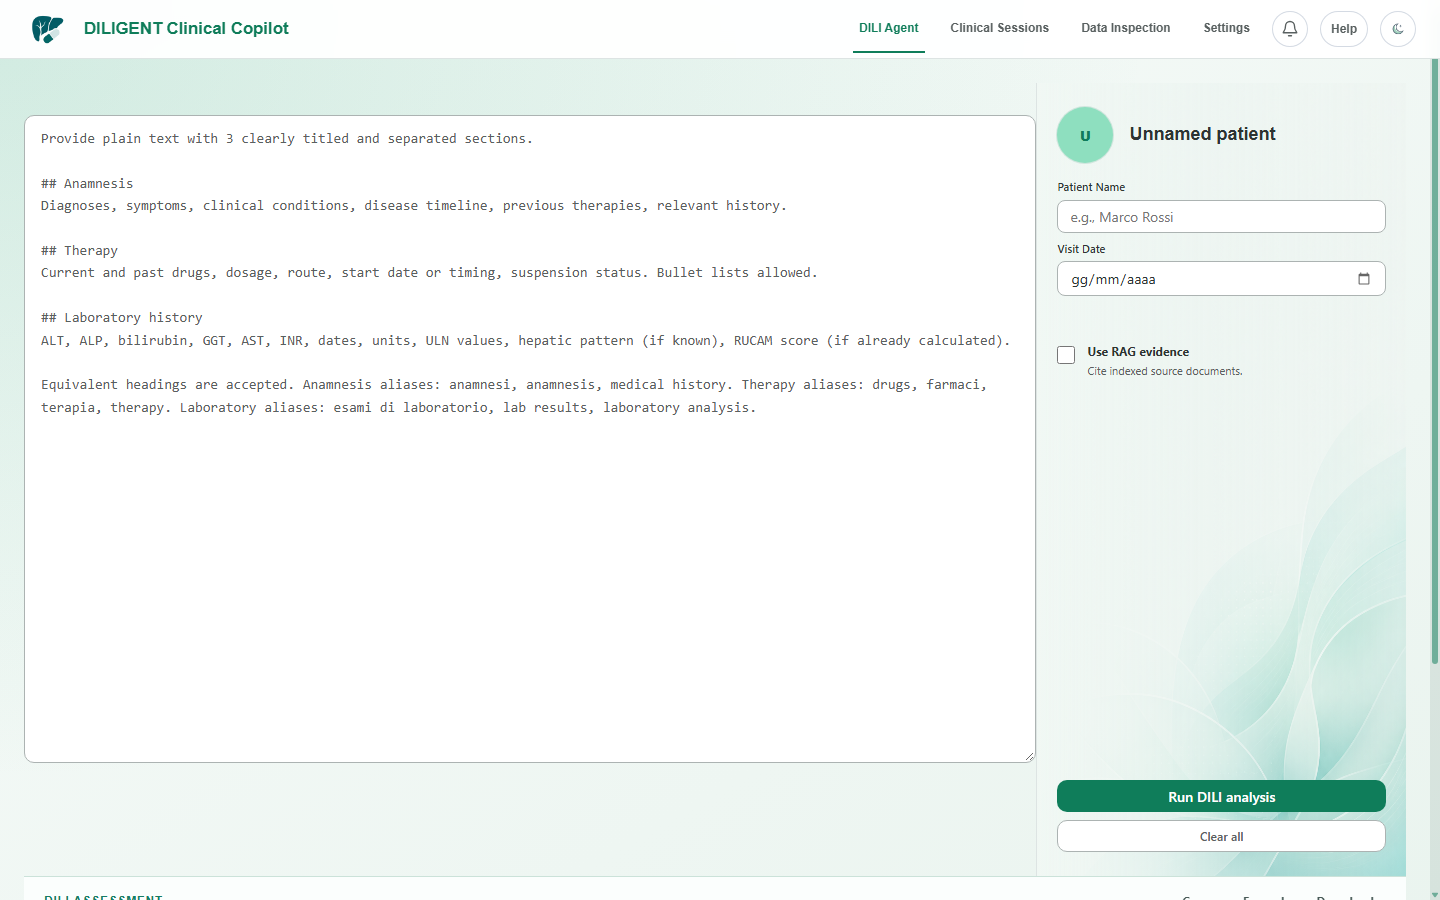
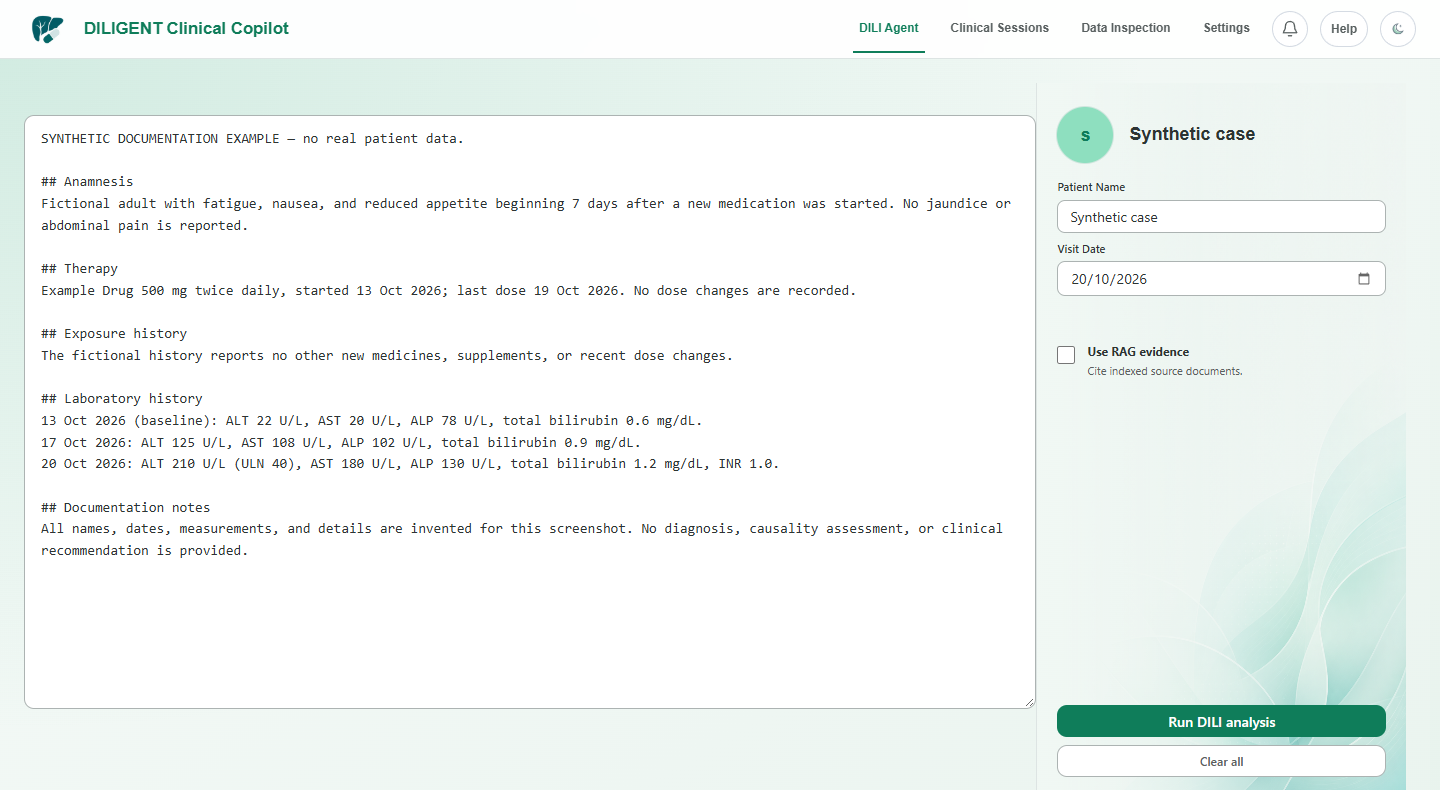
docs: update README with improved formatting and clarify content

diff --git a/README.md b/README.md
@@ -1,10 +1,22 @@
-# DILIGENT Clinical Copilot
+<p align="center">
+  <img src="app/client/public/diligent-logo.png" alt="DILIGENT logo" width="88">
+</p>
 
-<p align="center"><img src="app/client/public/diligent-logo.png" alt="DILIGENT logo" width="112"></p>
+<h1 align="center">DILIGENT Clinical Copilot</h1>
 
-**A local, single-user decision-support tool for structured review of possible drug-induced liver injury (DILI).**
+<p align="center"><strong>A local, single-user decision-support tool for structured review of possible drug-induced liver injury (DILI).</strong></p>
 
-[![License](https://img.shields.io/github/license/CTCycle/DILIGENT-Clinical-Copilot?style=flat-square)](LICENSE) [![Release](https://img.shields.io/github/v/release/CTCycle/DILIGENT-Clinical-Copilot?display_name=tag&style=flat-square)](https://github.com/CTCycle/DILIGENT-Clinical-Copilot/releases) [![CI](https://img.shields.io/github/actions/workflow/status/CTCycle/DILIGENT-Clinical-Copilot/ci.yml?branch=develop&label=CI&style=flat-square)](https://github.com/CTCycle/DILIGENT-Clinical-Copilot/actions/workflows/ci.yml?query=branch%3Adevelop) [![Python](https://img.shields.io/badge/Python-3.14%2B-3776AB?logo=python&logoColor=white&style=flat-square)](app/server/pyproject.toml) [![Angular](https://img.shields.io/badge/Angular-21-DD0031?logo=angular&logoColor=white&style=flat-square)](app/client/package.json) [![Platform](https://img.shields.io/badge/Platform-Windows-0078D4?logo=windows&logoColor=white&style=flat-square)](https://www.microsoft.com/windows)
+<p align="center">
+  <a href="LICENSE"><img alt="License" src="https://img.shields.io/github/license/CTCycle/DILIGENT-Clinical-Copilot?style=flat-square"></a>
+  <a href="https://github.com/CTCycle/DILIGENT-Clinical-Copilot/releases"><img alt="Release" src="https://img.shields.io/github/v/release/CTCycle/DILIGENT-Clinical-Copilot?display_name=tag&style=flat-square"></a>
+  <a href="https://github.com/CTCycle/DILIGENT-Clinical-Copilot/actions/workflows/ci.yml?query=branch%3Adevelop"><img alt="CI" src="https://img.shields.io/github/actions/workflow/status/CTCycle/DILIGENT-Clinical-Copilot/ci.yml?branch=develop&label=CI&style=flat-square"></a>
+</p>
+
+<p align="center">
+  <a href="app/server/pyproject.toml"><img alt="Python 3.14+" src="https://img.shields.io/badge/Python-3.14%2B-3776AB?logo=python&logoColor=white&style=flat-square"></a>
+  <a href="app/client/package.json"><img alt="Angular 21" src="https://img.shields.io/badge/Angular-21-DD0031?logo=angular&logoColor=white&style=flat-square"></a>
+  <a href="https://www.microsoft.com/windows"><img alt="Platform: Windows" src="https://img.shields.io/badge/Platform-Windows-0078D4?logo=windows&logoColor=white&style=flat-square"></a>
+</p>
 
 ## Overview
 
@@ -21,15 +33,15 @@ DILIGENT brings clinical history, medication exposure, symptoms, laboratory resu
 
 ## Screenshots
 
-Enter clinical context in the DILI Agent before starting an assessment.
+Enter a fictional case in the DILI Agent. The analysis has not been run.
 
 ![DILI Agent case entry](assets/figures/01-dili-agent.png)
 
-Open a saved session to review its report and structured findings. This documentation-only example is synthetic; it does not represent a patient, clinical assessment, or model output.
+Review a saved, synthetic documentation example. It does not represent a real patient, clinical assessment, or model output.
 
 ![Synthetic clinical session report](assets/figures/02-clinical-session-synthetic-report.png)
 
-Configure retrieval and ranking behavior in Settings. Changes are saved automatically.
+Review retrieval and ranking options in Settings; the autosave status is visible in the dialog.
 
 ![RAG settings with autosave status](assets/figures/03-rag-settings-autosave.png)
 
